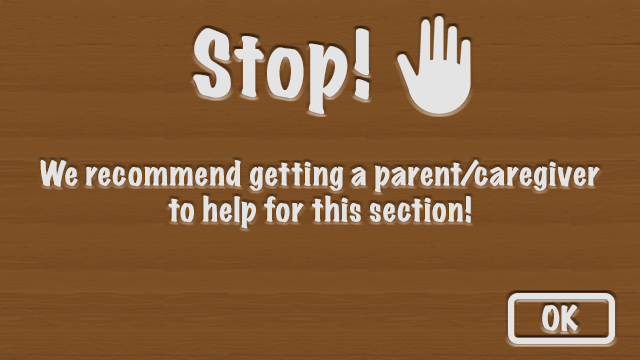
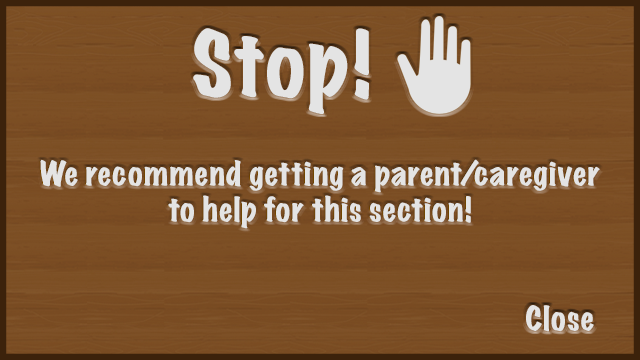
button clean ups

Changed region(s): [[0.0, 0.0, 1.0, 1.0]]

diff --git a/src/view/EnterNamePopupStyle.css b/src/view/EnterNamePopupStyle.css
@@ -2,11 +2,14 @@ AnchorPane {
     -fx-background-image:url('EnterNamePopup.png');
 }
 
-
 Button {
     -fx-background-color: Transparent;
-    -fx-background-radius: 5;
+    -fx-background-radius: 22;
     -fx-border-color: Transparent;
     -fx-border-width: 2;
-    -fx-border-radius: 5;
+    -fx-border-radius: 22;
+}
+
+Button:hover {
+    -fx-border-color: #e4e4e4;
 }

diff --git a/src/view/ParentsHelpPopupStyle.css b/src/view/ParentsHelpPopupStyle.css
@@ -5,8 +5,12 @@ AnchorPane {
 
 Button {
     -fx-background-color: Transparent;
-    -fx-background-radius: 5;
+    -fx-background-radius: 22;
     -fx-border-color: Transparent;
     -fx-border-width: 2;
-    -fx-border-radius: 5;
+    -fx-border-radius: 22;
+}
+
+Button:hover {
+    -fx-border-color: #e4e4e4;
 }

diff --git a/src/view/SettingsPopupStyle.css b/src/view/SettingsPopupStyle.css
@@ -10,3 +10,7 @@ Button {
     -fx-border-width: 2;
     -fx-border-radius: 22;
 }
+
+Button:hover {
+    -fx-border-color: #e4e4e4;
+}

diff --git a/src/controller/WrongViewController.java b/src/controller/WrongViewController.java
@@ -15,6 +15,8 @@ public class WrongViewController extends AbstractController implements Initializ
     private Button btn;
     @FXML
     private Label answerLbl;
+    @FXML
+    private Label lbl;
 
     private static ModeDirector _modeDirector = ModeDirector.instance();
 
@@ -51,15 +53,17 @@ public class WrongViewController extends AbstractController implements Initializ
 
         answerLbl.setText("You said " + attempt);
         if ((getSuperAttempts() > 1) && _modeDirector.getIteration() > (_modeDirector.getNumQuestions() - 2)) {
-            btn.setText("Finish");
+            lbl.setText("Finish");
             answerLbl.setText("You said " + attempt + ", the answer was " + answer);
         }
         else if ((getSuperAttempts() > 1)) {
-            btn.setText("Next Question");
+            lbl.setText("Next Question");
             answerLbl.setText("You said " + attempt + ", the answer was " + answer);
         }
         else {
-            btn.setText("Try Again!");
+            lbl.setText("Try Again!");
         }
+
+        setFonts(lbl, 65, answerLbl, 30, null, -1, null, -1, 2);
     }
 }

diff --git a/src/controller/CorrectViewController.java b/src/controller/CorrectViewController.java
@@ -3,6 +3,7 @@ package controller;
 import javafx.fxml.FXML;
 import javafx.fxml.Initializable;
 import javafx.scene.control.Button;
+import javafx.scene.control.Label;
 import model.ModeDirector;
 
 import java.net.URL;
@@ -12,6 +13,8 @@ public class CorrectViewController extends AbstractController implements Initial
 
     @FXML
     private Button nextBtn;
+    @FXML
+    Label lbl;
 
     private static ModeDirector _modeDirector = ModeDirector.instance();
 
@@ -32,9 +35,9 @@ public class CorrectViewController extends AbstractController implements Initial
     @Override
     public void initialize(URL location, ResourceBundle resources) {
         if (_modeDirector.getIteration() > (_modeDirector.getNumQuestions() - 2)) {
-            nextBtn.setText("Finish");
+            lbl.setText("Finish");
         } else {
-            nextBtn.setText("Next Question");
+            lbl.setText("Next");
         }
     }
 }

diff --git a/src/controller/EnterNamePopupController.java b/src/controller/EnterNamePopupController.java
@@ -41,6 +41,7 @@ public class EnterNamePopupController extends AbstractController implements Init
         } catch (FileNotFoundException e) {
             e.printStackTrace();
         }
+        textField.requestFocus();
 
     }
 }
